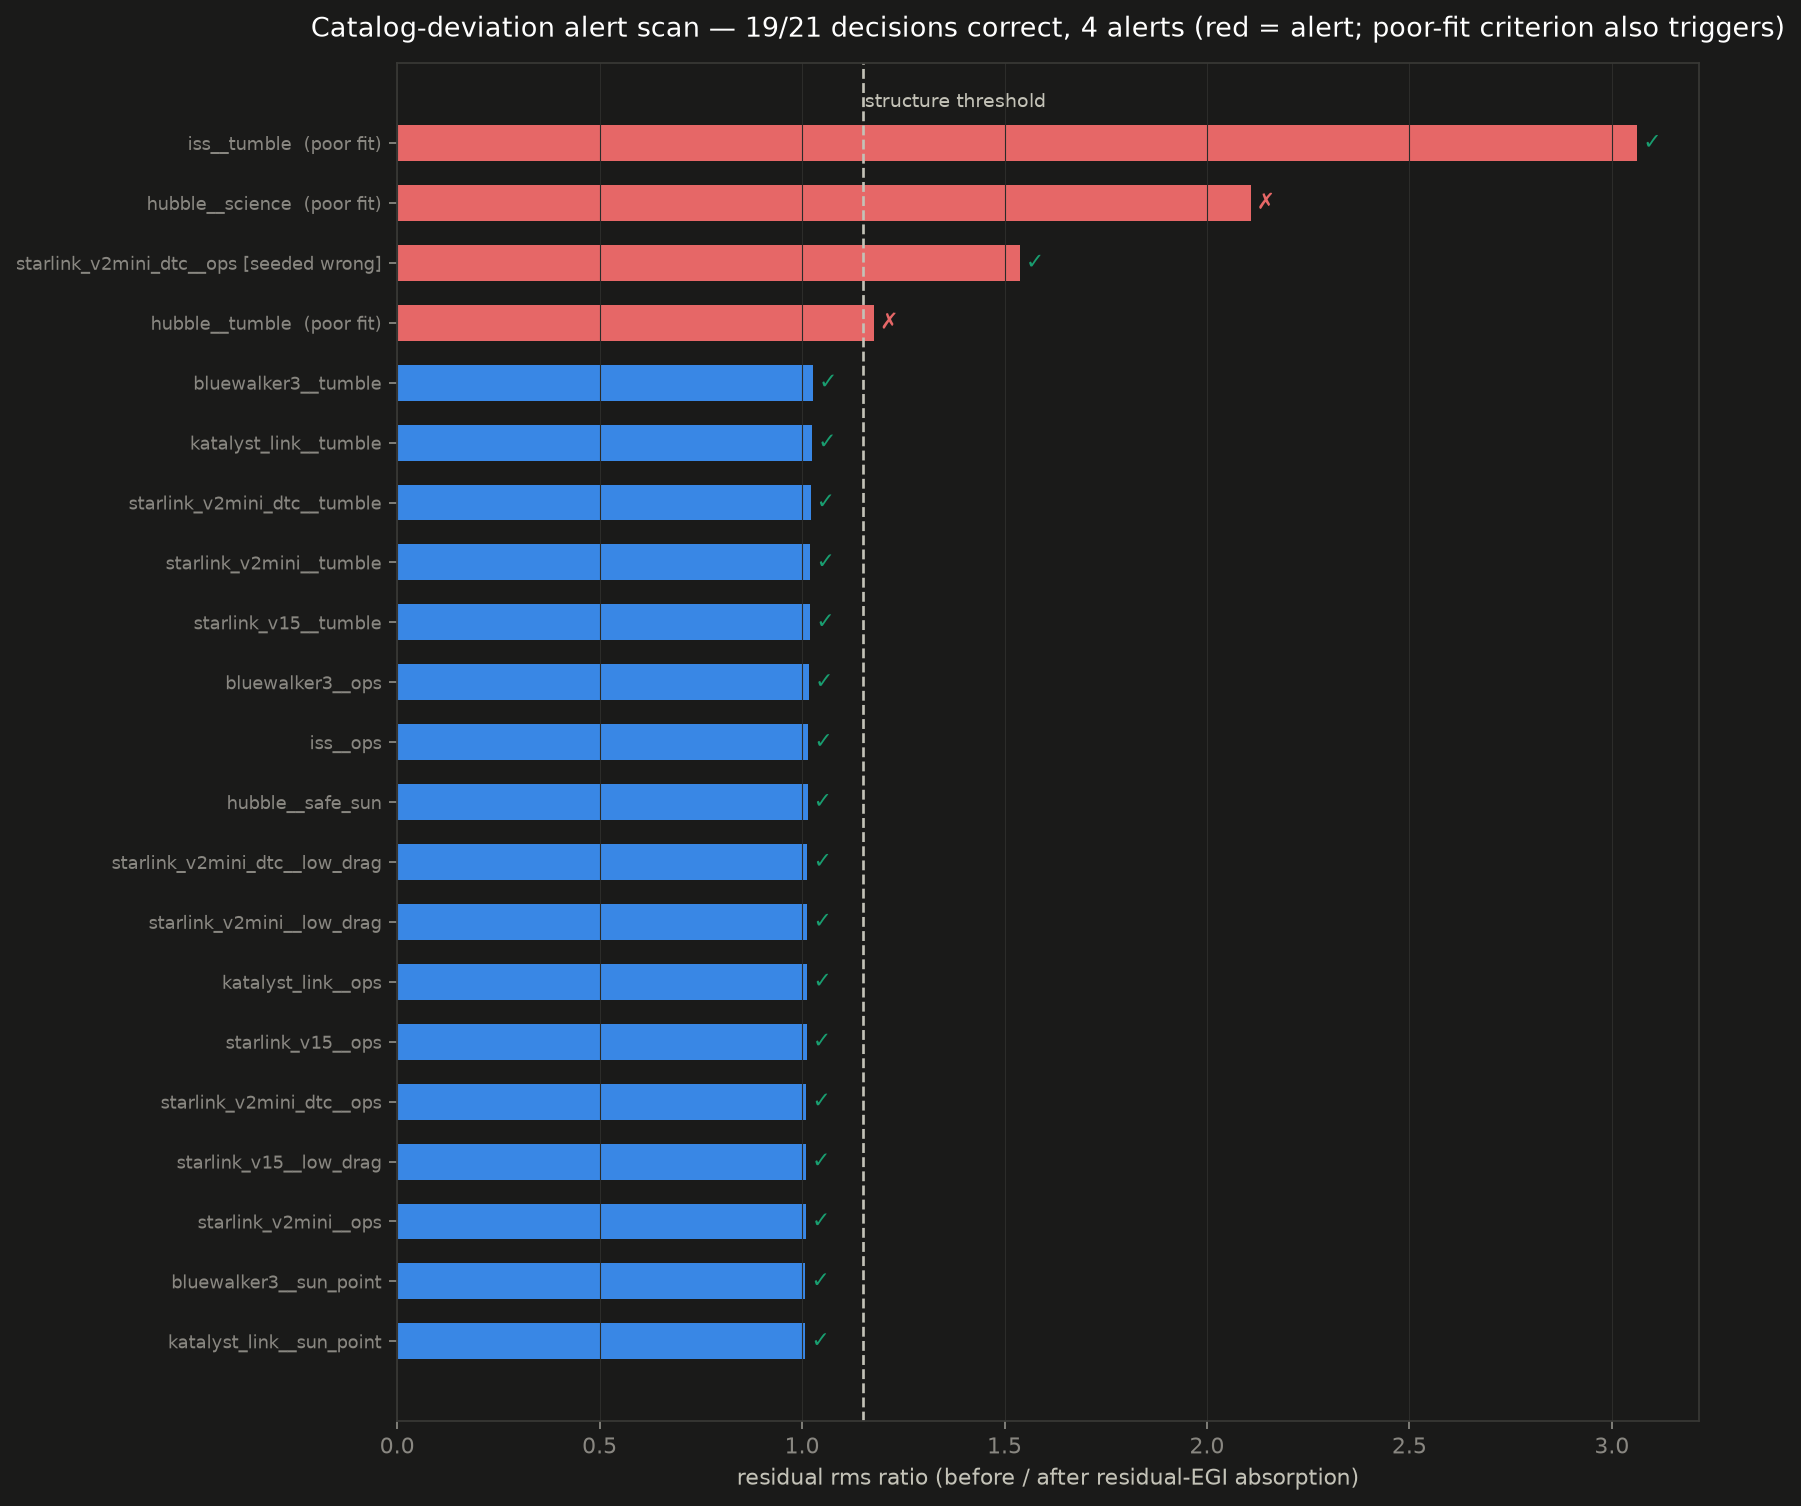
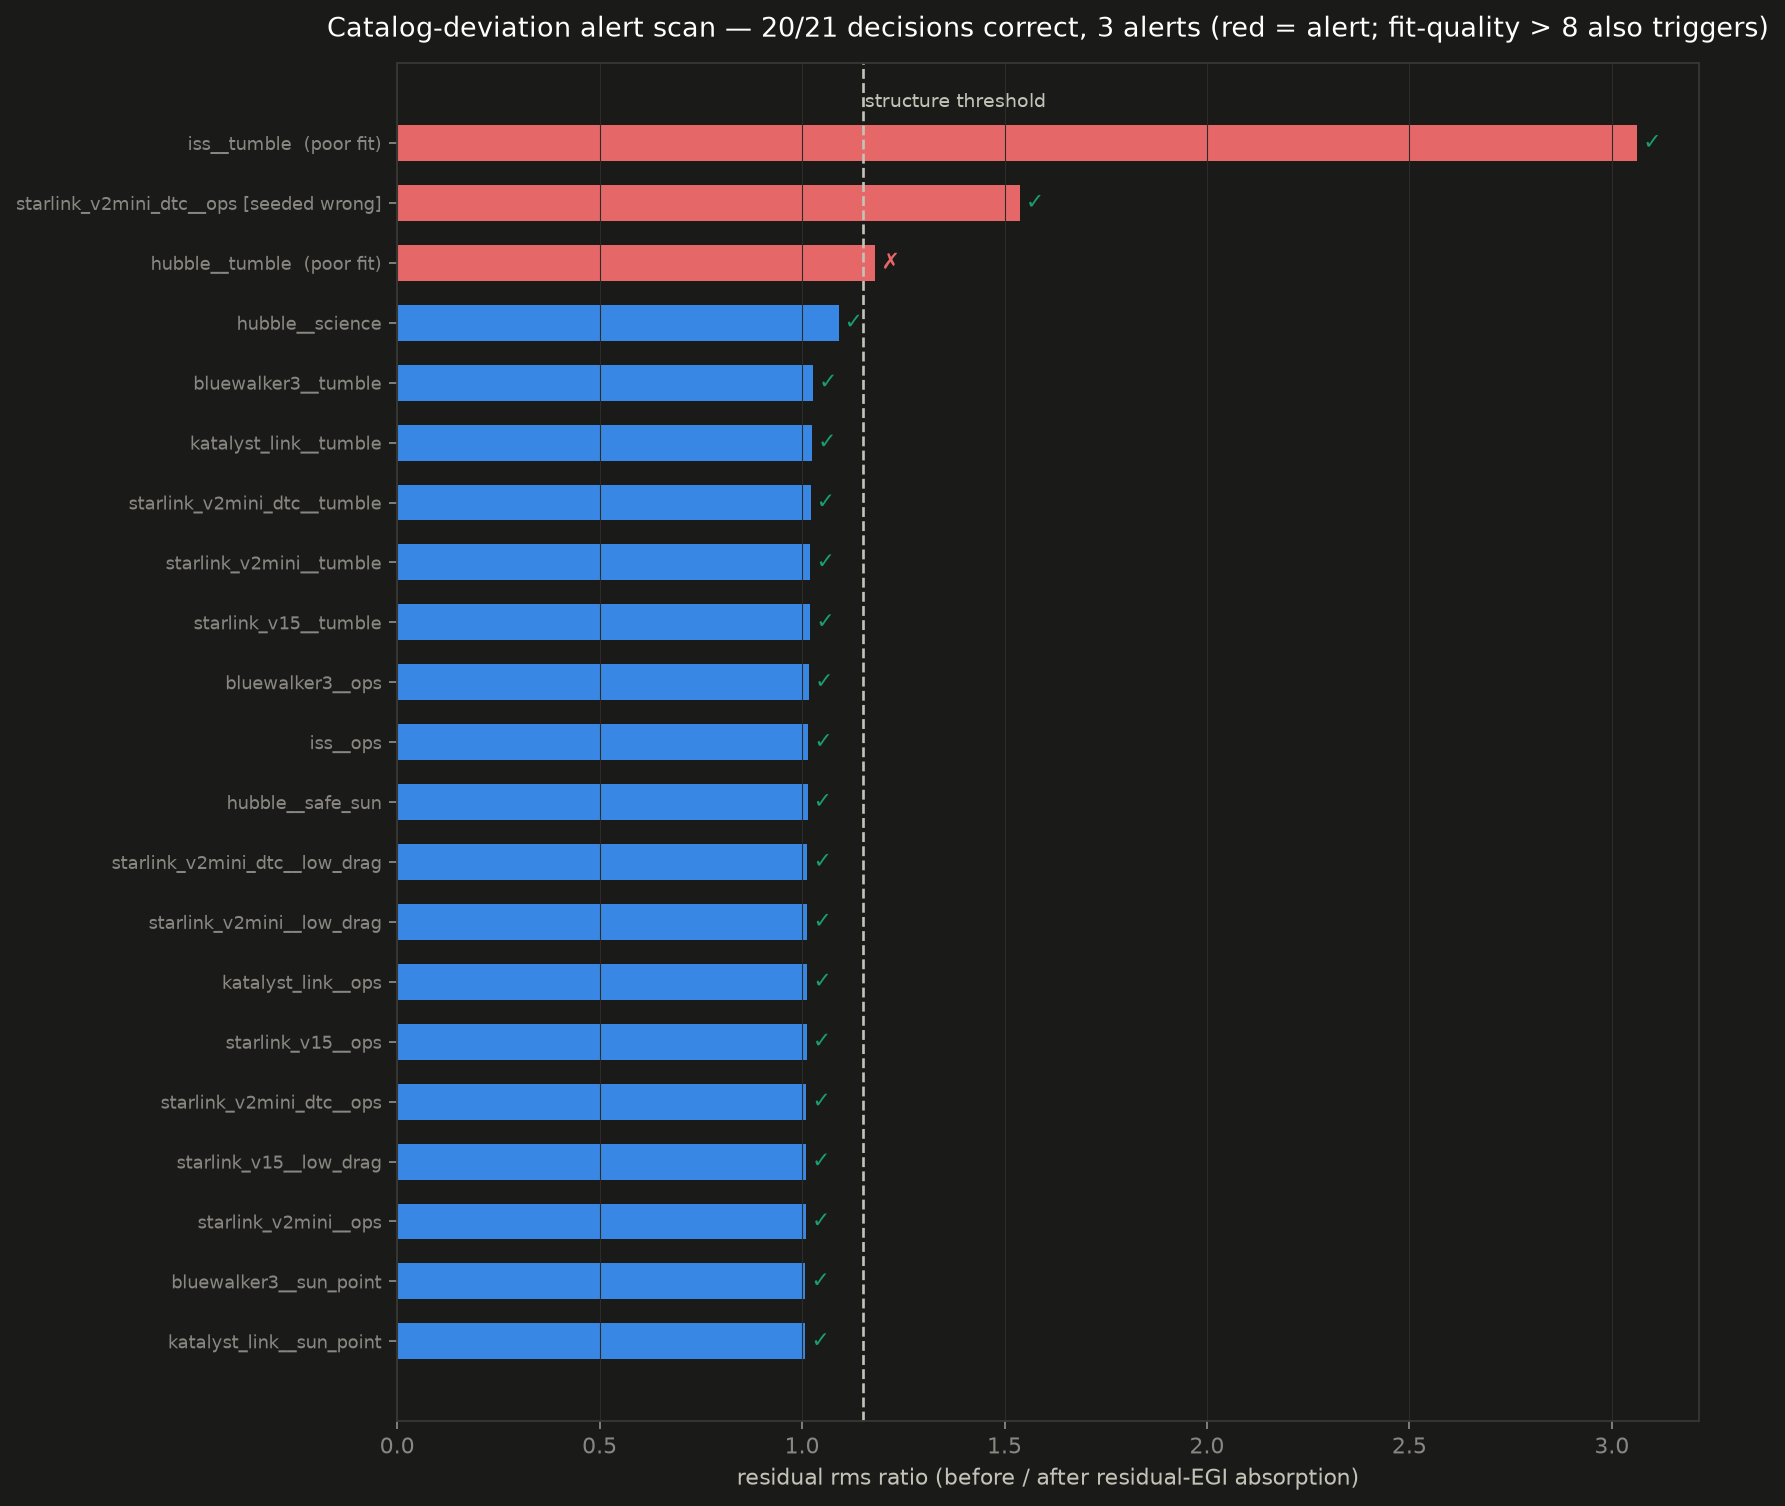
Deviation alert scan: 20/21 correct with calibrated fit-quality threshold
Claude-Session: https://claude.ai/code/session_018HUFR9zZ7uRcLJ1h3DAMGJ

diff --git a/src/photometry/inversion/deviation.py b/src/photometry/inversion/deviation.py
@@ -37,7 +37,7 @@ class DeviationAssessment:
 def assess_deviation(
     r: RefinementResult,
     rms_ratio_threshold: float = 1.15,
-    fit_quality_threshold: float = 4.0,
+    fit_quality_threshold: float = 8.0,
     cluster_cone_deg: float = 25.0,
 ) -> DeviationAssessment:
     ratio = r.residual_rms_before / max(r.residual_rms_after, 1e-9)
